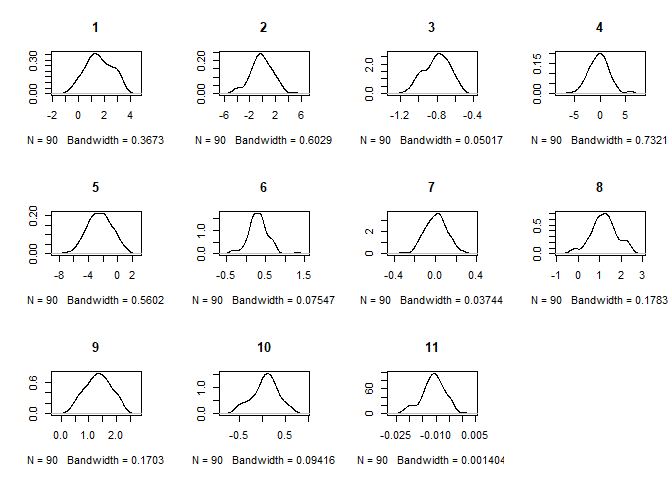
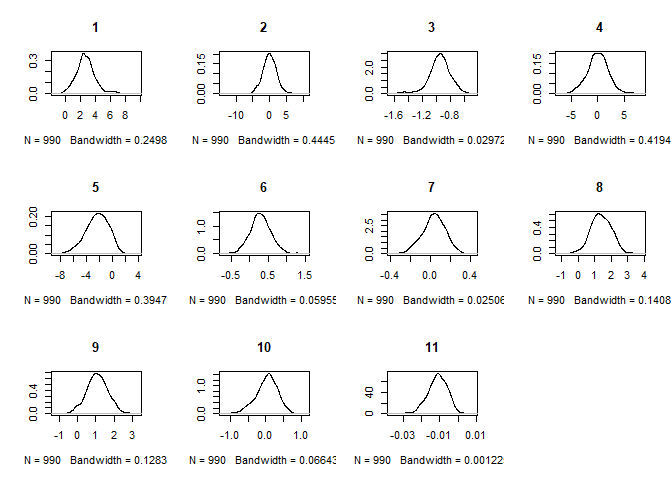
5000

diff --git a/README.md b/README.md
@@ -158,59 +158,60 @@ summary(model1, parameter = c("betas"))
 
 ``` r
 model2 <- mcmcsurv(Y = Y, Y0 = Y0, C =  C,  X = X, 
-                   N = 500, 
+                   N = 5000, 
                    burn = 50, 
                    thin = 5, 
                    w = c(0.5, 0.5, 0.5),
                    m = 10, 
                    form = "Weibull")
+#> [1] 5000
 ```
 
 ``` r
 stats(model2)
 #> $DIC
-#> [1] -990.6388
+#> [1] -931.7586
 #> 
 #> $Loglik
-#> [1] 437.1352
+#> [1] 406.9104
 
 summary(model2, parameter = c("betas"))
 #> 
-#> Iterations = 1:90
+#> Iterations = 1:990
 #> Thinning interval = 1 
 #> Number of chains = 1 
-#> Sample size per chain = 90 
+#> Sample size per chain = 990 
 #> 
 #> 1. Empirical mean and standard deviation for each variable,
 #>    plus standard error of the mean:
 #> 
-#>            Mean       SD  Naive SE Time-series SE
-#>  [1,]  1.578889 1.003823 0.1058122      0.4419339
-#>  [2,] -0.159537 1.715221 0.1808001      0.2209437
-#>  [3,] -0.803092 0.137091 0.0144506      0.0564542
-#>  [4,] -0.237241 2.015778 0.2124816      0.3347862
-#>  [5,] -2.453700 1.658339 0.1748043      0.1748043
-#>  [6,]  0.310840 0.254532 0.0268300      0.0268300
-#>  [7,]  0.005429 0.105255 0.0110948      0.0168405
-#>  [8,]  1.201831 0.596156 0.0628403      0.1096212
-#>  [9,]  1.337654 0.465448 0.0490626      0.0671351
-#> [10,]  0.065832 0.283995 0.0299357      0.0299357
-#> [11,] -0.011033 0.004427 0.0004666      0.0004666
+#>           Mean       SD  Naive SE Time-series SE
+#>  [1,]  2.68471 1.314732 0.0417849      0.2507437
+#>  [2,] -0.07245 2.116387 0.0672632      0.1179179
+#>  [3,] -0.95310 0.155614 0.0049457      0.0273686
+#>  [4,]  0.04172 2.001157 0.0636009      0.1020426
+#>  [5,] -2.35045 1.742575 0.0553827      0.0806998
+#>  [6,]  0.29023 0.283431 0.0090080      0.0094671
+#>  [7,]  0.03425 0.113504 0.0036074      0.0050411
+#>  [8,]  1.38129 0.621695 0.0197588      0.0327997
+#>  [9,]  1.09136 0.576131 0.0183107      0.0558847
+#> [10,]  0.02767 0.303783 0.0096549      0.0118986
+#> [11,] -0.01128 0.005408 0.0001719      0.0003426
 #> 
 #> 2. Quantiles for each variable:
 #> 
-#>          2.5%      25%       50%       75%     97.5%
-#> var1  -0.2014  0.86487  1.510504  2.350857  3.248243
-#> var2  -3.9800 -1.24104 -0.223195  0.966644  2.787786
-#> var3  -1.0665 -0.89645 -0.796591 -0.699316 -0.569890
-#> var4  -3.8423 -1.63756 -0.160260  1.043486  3.289683
-#> var5  -5.5577 -3.50064 -2.510662 -1.449178  0.713268
-#> var6  -0.2274  0.16517  0.298276  0.441525  0.749105
-#> var7  -0.1724 -0.06625  0.009062  0.070856  0.185798
-#> var8  -0.1265  0.86508  1.211858  1.517927  2.292984
-#> var9   0.5109  1.01230  1.349959  1.678986  2.128908
-#> var10 -0.5338 -0.09846  0.079818  0.246366  0.577457
-#> var11 -0.0206 -0.01326 -0.010692 -0.008122 -0.003939
+#>           2.5%      25%      50%       75%     97.5%
+#> var1   0.32384  1.88424  2.58445  3.361645  6.006567
+#> var2  -4.17962 -1.34156 -0.03877  1.287575  4.095080
+#> var3  -1.33382 -1.03360 -0.94671 -0.857819 -0.674370
+#> var4  -4.01793 -1.19093  0.06782  1.290186  4.019956
+#> var5  -6.10955 -3.45737 -2.24469 -1.078924  0.605109
+#> var6  -0.25719  0.11335  0.28444  0.465635  0.870440
+#> var7  -0.19654 -0.03528  0.03904  0.112968  0.246827
+#> var8   0.12191  0.96021  1.36329  1.817703  2.555926
+#> var9  -0.05349  0.70977  1.07590  1.468425  2.185599
+#> var10 -0.62089 -0.15184  0.06012  0.241104  0.572129
+#> var11 -0.02205 -0.01460 -0.01102 -0.007355 -0.001885
 ```
 
 <img src="man/figures/README-unnamed-chunk-8-1.png" width="100%" /><img src="man/figures/README-unnamed-chunk-8-2.png" width="100%" />
